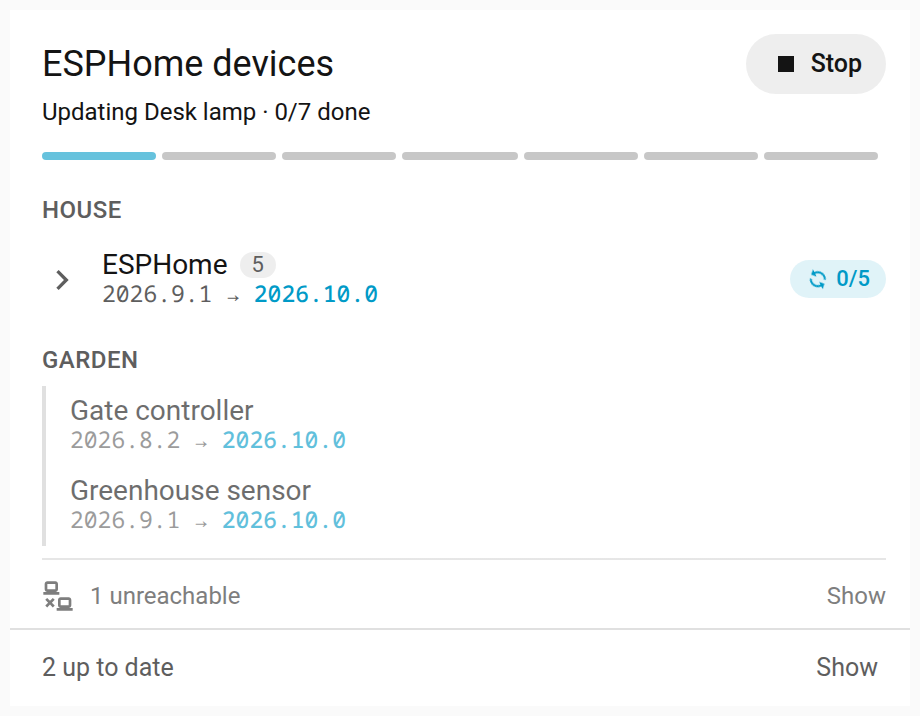
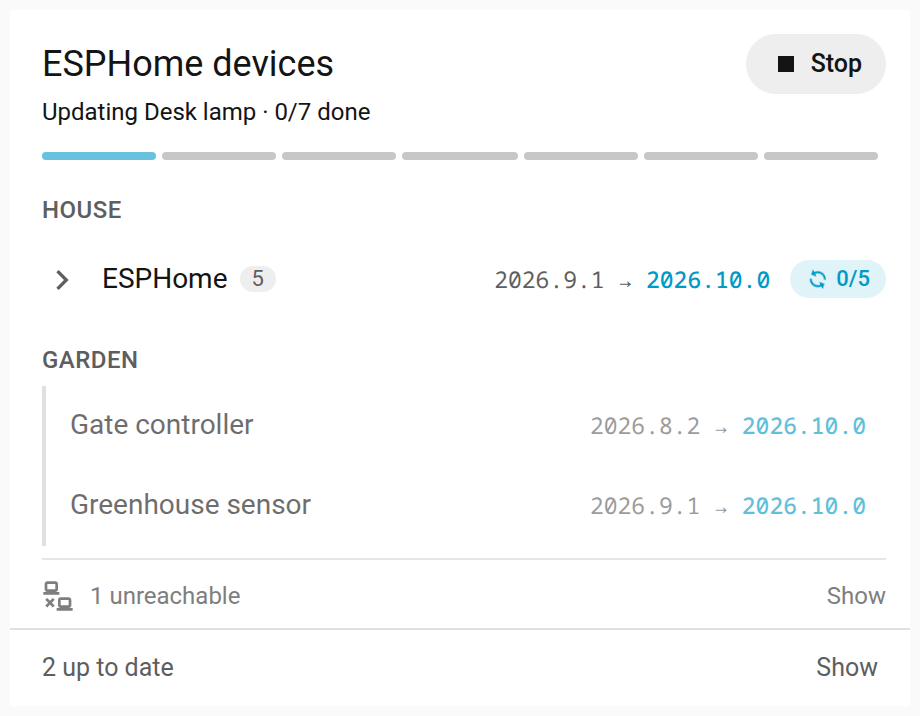
Measure whether the versions fit beside the names, instead of a fixed width
A waiting row's or a bunch's version goes beside its name only when every name's longest word, the gap and the whole
version fit on one line, and no row is taller than with its version under its name. Every such row switches together,
so the list keeps one layout. A held card measures too, its list keeping its scrollbar's room whether it scrolls or
not. Measuring holds the list and its content to their heights rounded to 1/64 px, so nothing moves and a scrolled
list keeps its place. The README's screenshots are retaken, as their short names now fit beside their versions at
450 px.

diff --git a/src/updates-card.ts b/src/updates-card.ts
@@ -71,6 +71,12 @@ function narrowestWidth(columns: number): number {
 
 const px = (value: string) => parseFloat(value) || 0;
 
+/**
+ * Room for a measure read in fractions of a pixel, so a text exactly as wide as its room still fits. Smaller than the
+ * 1/64 px a browser lays out in.
+ */
+const SLACK_PX = 0.01;
+
 /** The gap above the line of those up to date while nothing waits, as the groups have above them while updates wait. */
 const QUIET_GAP_PX = 6;
 
@@ -163,6 +169,8 @@ export class UpdatesCard extends LitElement {
     @state() private sliding = false;
     /** The card's width when last measured, 0 before it is drawn. */
     @state() private width = 0;
+    /** As last measured, whether the waiting rows' and bunches' versions fit beside their names. */
+    @state() private beside = false;
     private timer?: number;
     private slideTimer?: number;
     private frame?: number;
@@ -263,7 +271,54 @@ export class UpdatesCard extends LitElement {
 
     private measureSoon(): void {
         cancelAnimationFrame(this.frame ?? 0);
-        this.frame = requestAnimationFrame(() => this.fillRows());
+        this.frame = requestAnimationFrame(() => {
+            this.measureBeside();
+            this.fillRows();
+        });
+    }
+
+    /**
+     * Puts the waiting rows' and bunches' versions beside their names only when they fit there: when a name's longest word,
+     * the gap and the whole version fit in the row's texts, and no row is taller than with its version under its name. Then
+     * every such row, shut folds' included, so the list keeps one layout. The list is held to its drawn height meanwhile,
+     * its overflow clipped, so nothing around it moves.
+     */
+    private measureBeside(): void {
+        const card = this.renderRoot.querySelector<HTMLElement>("ha-card");
+        const list = card?.querySelector<HTMLElement>(":scope > .list");
+        const infos = list ? [...list.querySelectorAll<HTMLElement>(".row:not(.sib) > .info, .sum > .info")] : [];
+        if (!card || !list?.clientWidth || infos.length === 0) {
+            return;
+        }
+        const heights = (): number[] => infos.map((info) => px(getComputedStyle(info).height));
+        const was = card.classList.contains("beside");
+        // A computed height has six significant digits, which can fall short of the 1/64 px a browser lays out in, and the
+        // list held to that would shrink by a fraction while it is measured. So it is held to the 1/64 px it rounds to. Its
+        // content is held too, so a held list that scrolls keeps its place while the rows measured beside are shorter.
+        const content = list.firstElementChild as HTMLElement | null;
+        list.style.height = `${Math.round(px(getComputedStyle(list).height) * 64) / 64}px`;
+        list.style.overflow = "hidden";
+        list.style.overflowAnchor = "none";
+        content?.style.setProperty("min-height", `${Math.round(px(getComputedStyle(content).height) * 64) / 64}px`);
+        card.classList.remove("beside");
+        const under = heights();
+        card.classList.add("beside");
+        const sideBySide = heights();
+        card.classList.add("measuring");
+        const fits = infos.every((info, i) => {
+            const style = getComputedStyle(info);
+            const parts = [...info.children].reduce((sum, part) => sum + px(getComputedStyle(part).width), 0);
+            return parts + px(style.columnGap) <= px(style.width) + SLACK_PX && sideBySide[i] <= under[i] + SLACK_PX;
+        });
+        card.classList.remove("measuring");
+        card.classList.toggle("beside", was);
+        list.style.height = "";
+        list.style.overflow = "";
+        list.style.overflowAnchor = "";
+        content?.style.removeProperty("min-height");
+        if (fits !== this.beside) {
+            this.beside = fits;
+        }
     }
 
     /**
@@ -330,7 +385,7 @@ export class UpdatesCard extends LitElement {
 
     /** The card's classes: held to a height, its texts above the list keep to one line, and a slide moves its rows along. */
     private cardClass(): string {
-        return [this.heightStyle() && "held", this.sliding && "sliding"].filter(Boolean).join(" ");
+        return [this.heightStyle() && "held", this.sliding && "sliding", this.beside && "beside"].filter(Boolean).join(" ");
     }
 
     private readonly toggleAll = (): void => {
@@ -1404,20 +1459,36 @@ export class UpdatesCard extends LitElement {
                     }
                 }
 
-                /* A wide group has room for a waiting row's versions beside its name. */
-                @container (min-width: 600px) {
-                    .row:not(.sib) .info,
-                    .sum .info {
-                        display: flex;
-                        align-items: baseline;
-                        justify-content: space-between;
-                        gap: 16px;
-                    }
+                /*
+                 * A waiting row's or a bunch's version goes beside its name when every one fits there, as measured, on one
+                 * line. Its name wraps between words only, as its longest word was measured to fit.
+                 */
+                .beside .row:not(.sib) > .info,
+                .beside .sum > .info {
+                    display: flex;
+                    align-items: baseline;
+                    justify-content: space-between;
+                    gap: 16px;
+                }
 
-                    .row:not(.sib) .ver,
-                    .sum .ver {
-                        text-align: right;
-                    }
+                .beside .row:not(.sib) > .info > .name,
+                .beside .sum > .info > .name {
+                    overflow-wrap: break-word;
+                }
+
+                .beside .row:not(.sib) > .info > .ver,
+                .beside .sum > .info > .ver {
+                    flex: none;
+                    white-space: nowrap;
+                    text-align: end;
+                }
+
+                /* Measuring: each name at its longest word, never broken inside one, beside its whole version. */
+                .measuring .row:not(.sib) > .info > .name,
+                .measuring .sum > .info > .name {
+                    flex: none;
+                    width: min-content;
+                    overflow-wrap: normal;
                 }
 
                 /* Held to a height, the texts above the list and the line under it keep to one line, cut short with their text as a tooltip. */
@@ -1433,6 +1504,7 @@ export class UpdatesCard extends LitElement {
 
                 /* Held, the list scrolls, so its scrollbar and its end keep off the card's edges. A shut one has neither. */
                 .held .list:not(.shut) {
+                    scrollbar-gutter: stable;
                     margin-right: 4px;
                     margin-bottom: 8px;
                 }

diff --git a/dist/updates-card.js b/dist/updates-card.js
@@ -1335,6 +1335,7 @@ function narrowestWidth(columns) {
   return columns >= 12 ? 288 : columns >= 9 ? 214 : 140;
 }
 var px = (value) => parseFloat(value) || 0;
+var SLACK_PX = 0.01;
 var QUIET_GAP_PX = 6;
 var CARD_PARTS = [".hd", ".hd-sub", ".bar", ".list", ".switch", ".message", ".idle"].map((part) => `:scope > ${part}`).join(", ");
 function endHeight(element) {
@@ -1389,6 +1390,7 @@ var UpdatesCard = class extends i4 {
     this.spare = 0;
     this.sliding = false;
     this.width = 0;
+    this.beside = false;
     this.resizes = typeof ResizeObserver === "undefined" ? void 0 : new ResizeObserver(() => this.measureSoon());
     /** Whether the install-all script was running at the last update, whether its run has taken on its rows, and when it last stopped. */
     this.running = false;
@@ -1475,7 +1477,50 @@ var UpdatesCard = class extends i4 {
   }
   measureSoon() {
     cancelAnimationFrame(this.frame ?? 0);
-    this.frame = requestAnimationFrame(() => this.fillRows());
+    this.frame = requestAnimationFrame(() => {
+      this.measureBeside();
+      this.fillRows();
+    });
+  }
+  /**
+   * Puts the waiting rows' and bunches' versions beside their names only when they fit there: when a name's longest word,
+   * the gap and the whole version fit in the row's texts, and no row is taller than with its version under its name. Then
+   * every such row, shut folds' included, so the list keeps one layout. The list is held to its drawn height meanwhile,
+   * its overflow clipped, so nothing around it moves.
+   */
+  measureBeside() {
+    const card = this.renderRoot.querySelector("ha-card");
+    const list = card?.querySelector(":scope > .list");
+    const infos = list ? [...list.querySelectorAll(".row:not(.sib) > .info, .sum > .info")] : [];
+    if (!card || !list?.clientWidth || infos.length === 0) {
+      return;
+    }
+    const heights = () => infos.map((info) => px(getComputedStyle(info).height));
+    const was = card.classList.contains("beside");
+    const content = list.firstElementChild;
+    list.style.height = `${Math.round(px(getComputedStyle(list).height) * 64) / 64}px`;
+    list.style.overflow = "hidden";
+    list.style.overflowAnchor = "none";
+    content?.style.setProperty("min-height", `${Math.round(px(getComputedStyle(content).height) * 64) / 64}px`);
+    card.classList.remove("beside");
+    const under = heights();
+    card.classList.add("beside");
+    const sideBySide = heights();
+    card.classList.add("measuring");
+    const fits = infos.every((info, i7) => {
+      const style = getComputedStyle(info);
+      const parts = [...info.children].reduce((sum, part) => sum + px(getComputedStyle(part).width), 0);
+      return parts + px(style.columnGap) <= px(style.width) + SLACK_PX && sideBySide[i7] <= under[i7] + SLACK_PX;
+    });
+    card.classList.remove("measuring");
+    card.classList.toggle("beside", was);
+    list.style.height = "";
+    list.style.overflow = "";
+    list.style.overflowAnchor = "";
+    content?.style.removeProperty("min-height");
+    if (fits !== this.beside) {
+      this.beside = fits;
+    }
   }
   /**
    * In a sections view whose rows are left automatic, the card takes the whole rows its content needs, or the half rows
@@ -1533,7 +1578,7 @@ var UpdatesCard = class extends i4 {
   }
   /** The card's classes: held to a height, its texts above the list keep to one line, and a slide moves its rows along. */
   cardClass() {
-    return [this.heightStyle() && "held", this.sliding && "sliding"].filter(Boolean).join(" ");
+    return [this.heightStyle() && "held", this.sliding && "sliding", this.beside && "beside"].filter(Boolean).join(" ");
   }
   /** A fold set sliding: the card fills its rows along with the slide until the slide's end, or a second in case none comes. */
   slide() {
@@ -2513,20 +2558,36 @@ var UpdatesCard = class extends i4 {
                     }
                 }
 
-                /* A wide group has room for a waiting row's versions beside its name. */
-                @container (min-width: 600px) {
-                    .row:not(.sib) .info,
-                    .sum .info {
-                        display: flex;
-                        align-items: baseline;
-                        justify-content: space-between;
-                        gap: 16px;
-                    }
+                /*
+                 * A waiting row's or a bunch's version goes beside its name when every one fits there, as measured, on one
+                 * line. Its name wraps between words only, as its longest word was measured to fit.
+                 */
+                .beside .row:not(.sib) > .info,
+                .beside .sum > .info {
+                    display: flex;
+                    align-items: baseline;
+                    justify-content: space-between;
+                    gap: 16px;
+                }
 
-                    .row:not(.sib) .ver,
-                    .sum .ver {
-                        text-align: right;
-                    }
+                .beside .row:not(.sib) > .info > .name,
+                .beside .sum > .info > .name {
+                    overflow-wrap: break-word;
+                }
+
+                .beside .row:not(.sib) > .info > .ver,
+                .beside .sum > .info > .ver {
+                    flex: none;
+                    white-space: nowrap;
+                    text-align: end;
+                }
+
+                /* Measuring: each name at its longest word, never broken inside one, beside its whole version. */
+                .measuring .row:not(.sib) > .info > .name,
+                .measuring .sum > .info > .name {
+                    flex: none;
+                    width: min-content;
+                    overflow-wrap: normal;
                 }
 
                 /* Held to a height, the texts above the list and the line under it keep to one line, cut short with their text as a tooltip. */
@@ -2542,6 +2603,7 @@ var UpdatesCard = class extends i4 {
 
                 /* Held, the list scrolls, so its scrollbar and its end keep off the card's edges. A shut one has neither. */
                 .held .list:not(.shut) {
+                    scrollbar-gutter: stable;
                     margin-right: 4px;
                     margin-bottom: 8px;
                 }
@@ -2671,6 +2733,9 @@ __decorateClass([
 __decorateClass([
   r5()
 ], UpdatesCard.prototype, "width", 2);
+__decorateClass([
+  r5()
+], UpdatesCard.prototype, "beside", 2);
 UpdatesCard = __decorateClass([
   t3("updates-card")
 ], UpdatesCard);
